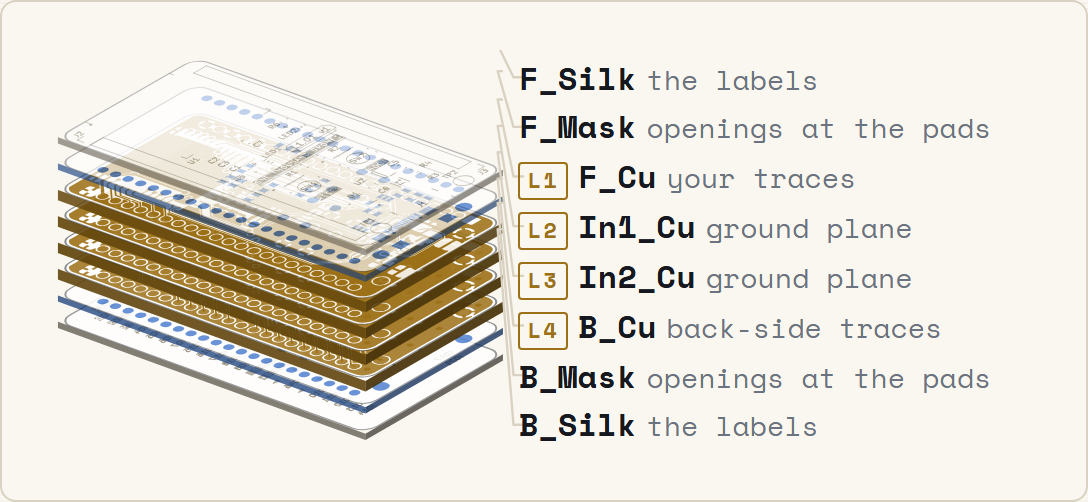
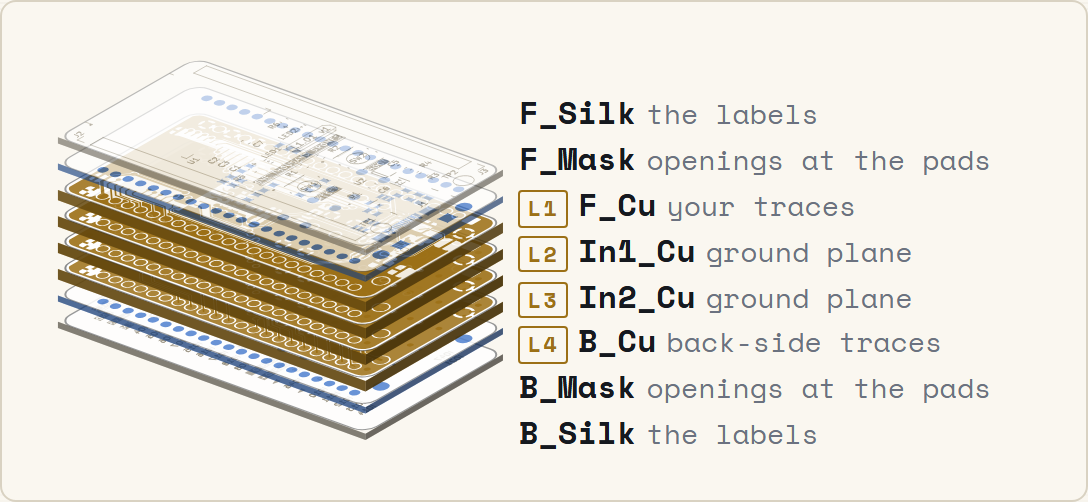
fix(diagram): drop the gerber stack's leader lines, clear the Fig corner
Two owner-directed fixes to the wide form.

The leaders are gone. The even label spread is what makes the column legible at
a 5 mm gap -- the eight sheet anchors span only a third of the art's height, so
anchored labels collide -- and it stands on its own without lines drawn back to
the sheets. `evenLabels` and `leaders` are now separate flags so the spread does
not imply the lines.

The label column also started at the top of the right gutter, which is exactly
where DiagramFrame paints its own "Fig N" in the in-lesson bare mode, so F_Silk
and the corner label overlapped. The column now starts below that corner and
spreads from there to the bottom of the art. Measured at 760, 900 and 1100 px:
no overlap, 21 px clearance.

Rasters re-exported and the manifest hash updated to match.

Changed region(s): [[0.4375, 0.1195, 0.9062, 0.8964]]

diff --git a/src/components/guide/diagrams/L101GerberStack.tsx b/src/components/guide/diagrams/L101GerberStack.tsx
@@ -56,10 +56,12 @@ const N = SHEETS.length;
 // wants the same world re-composed rather than summarised into text cards.
 // The wide gutter is a real legend column, not padding: at the tight gap that
 // keeps the stack reading as a stack, the eight sheet anchors span only a third of
-// the art's height, so the labels are spread evenly over the full height instead
-// and a leader carries the eye back to the sheet each one names.
-const WIDE = { gap: 5, gut: 100, spread: 9, leaders: true };
-const NARROW = { gap: 13, gut: 30, spread: 5, leaders: false };
+// the art's height, so the wide form spreads its labels evenly over the full
+// height instead. `evenLabels` and `leaders` are separate on purpose -- the even
+// spread is what makes the column legible, and it stands on its own without lines
+// drawn back to the sheets (owner directive 2026-07-28).
+const WIDE = { gap: 5, gut: 100, spread: 9, evenLabels: true, leaders: false };
+const NARROW = { gap: 13, gut: 30, spread: 5, evenLabels: false, leaders: false };
 
 // Front sheets give up this much alpha at full spread, and this fraction of it is
 // already given up at rest -- so the exported raster is an x-ray too, not a closed
@@ -140,12 +142,17 @@ function box(gap: number, gut: number) {
 // Both the SVG leader and the HTML label read this, so they cannot drift apart.
 function labelGeometry(gap: number, gut: number, even: boolean) {
   const { w, h, pad } = box(gap, gut);
-  const inset = h * 0.05;
+  // The frame paints its own "Fig N" in the TOP-RIGHT corner when a diagram is
+  // in-lesson, and this label column lives in the right gutter, so the first label
+  // has to start below that corner or the two collide. Everything after it is
+  // spread from there to the bottom of the art.
+  const insetTop = h * 0.14;
+  const insetBottom = h * 0.03;
   return SHEETS.map((s, i) => {
     const t = thickOf(s.kind);
     // the near edge is the sheet's BOTTOM; its mass runs up by P_H, so centre on that
     const anchorY = -MIN_Y + i * gap + t / 2 - P_H / 2;
-    const y = even ? inset + (i * (h - inset * 2)) / (N - 1) : anchorY;
+    const y = even ? insetTop + (i * (h - insetTop - insetBottom)) / (N - 1) : anchorY;
     const x = P_W + 3;
     return {
       anchorX: P_W,
@@ -171,10 +178,12 @@ function leaderMarkup(gap: number, gut: number, even: boolean): string {
 
 const WIDE_BOX = box(WIDE.gap, WIDE.gut);
 const NARROW_BOX = box(NARROW.gap, NARROW.gut);
-const WIDE_MARKUP = stackMarkup(WIDE.gap) + leaderMarkup(WIDE.gap, WIDE.gut, WIDE.leaders);
-const NARROW_MARKUP = stackMarkup(NARROW.gap);
-const WIDE_LABELS = labelGeometry(WIDE.gap, WIDE.gut, WIDE.leaders);
-const NARROW_LABELS = labelGeometry(NARROW.gap, NARROW.gut, NARROW.leaders);
+const WIDE_MARKUP =
+  stackMarkup(WIDE.gap) + (WIDE.leaders ? leaderMarkup(WIDE.gap, WIDE.gut, WIDE.evenLabels) : "");
+const NARROW_MARKUP =
+  stackMarkup(NARROW.gap) + (NARROW.leaders ? leaderMarkup(NARROW.gap, NARROW.gut, NARROW.evenLabels) : "");
+const WIDE_LABELS = labelGeometry(WIDE.gap, WIDE.gut, WIDE.evenLabels);
+const NARROW_LABELS = labelGeometry(NARROW.gap, NARROW.gut, NARROW.evenLabels);
 
 function Labels({
   pos,
